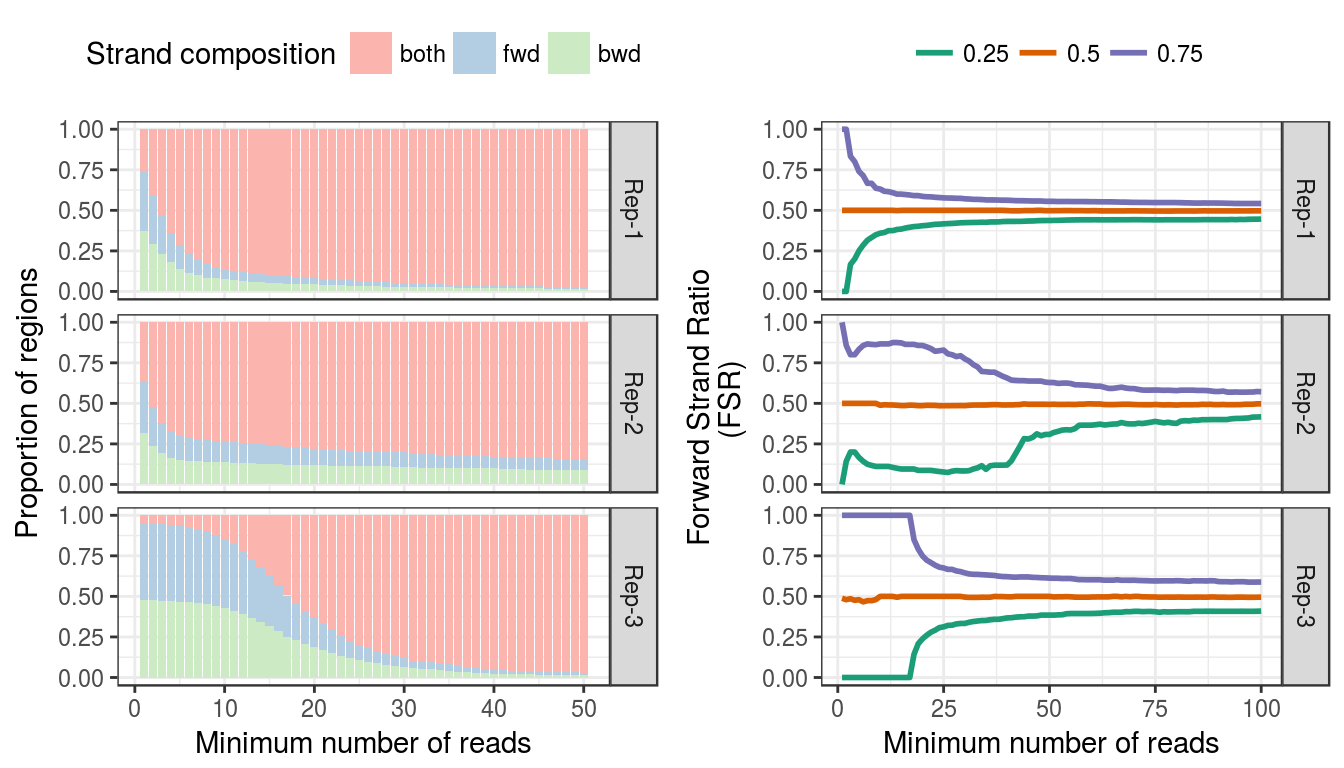
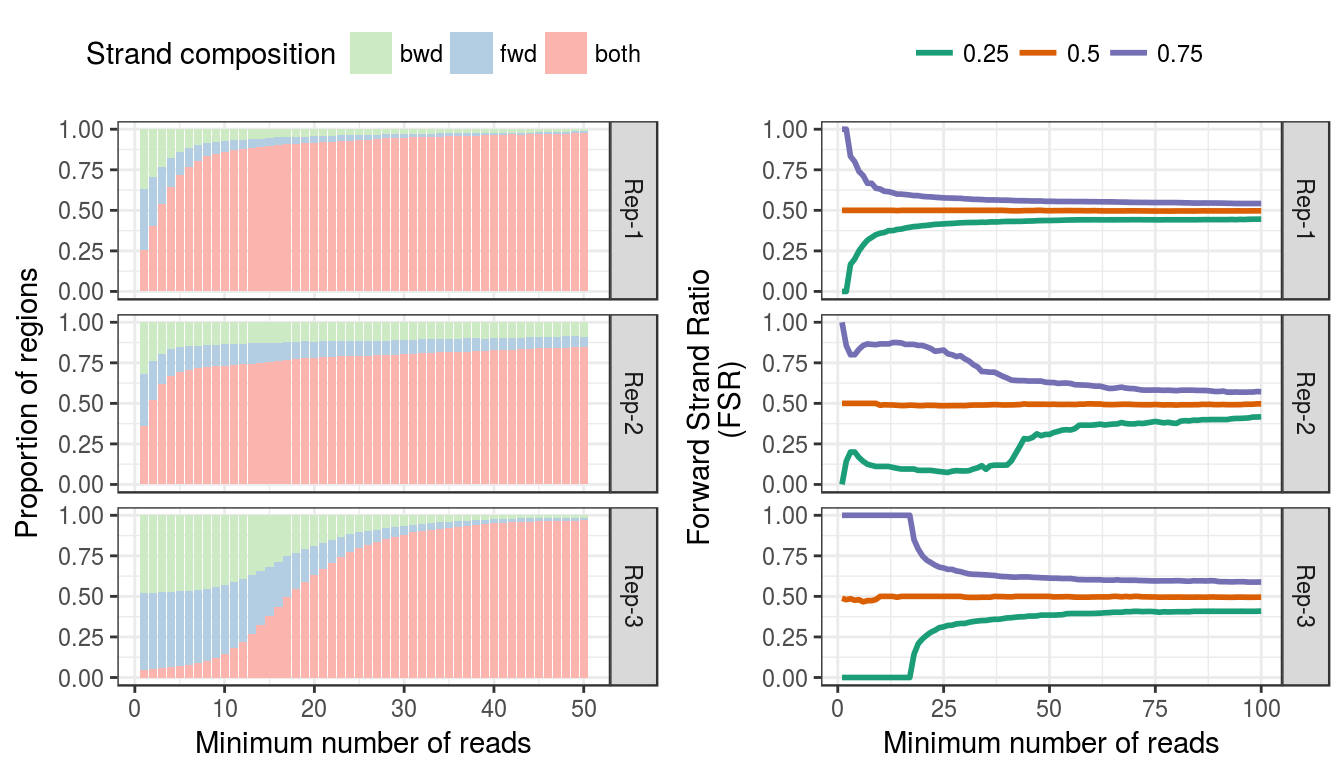
Adapted regionCompplot to recover plots similar to the ones in the manuscript as the recent updates to ggplot2 changed the output of this plot.

Changed region(s): [[0.0938, 0.1562, 0.4375, 0.9062], [0.25, 0.0312, 0.4688, 0.0938]]

diff --git a/docs/articles/vignette.html b/docs/articles/vignette.html
@@ -144,8 +144,8 @@ D_i = \beta_1 U_i + \beta_2 W_i + \varepsilon_i,
 <div id="strand-imbalance" class="section level2">
 <h2 class="hasAnchor"><html><body><a href="#strand-imbalance" class="anchor"> </a></body></html>Strand imbalance</h2>
 <p>To create the <em>FSR distribution</em> and <em>Region Composition</em> plots suggested in Welch et. al 2016 (submitted), we use the <strong>FSR_dist_plot</strong> and <strong>region_comp_plot</strong>, respectively.</p>
-<div class="sourceCode"><pre class="sourceCode r"><code class="sourceCode r">    p1 =<span class="st"> </span><span class="kw"><a href="../reference/regionCompplot.html">regionCompplot</a></span>(exampleExoData,<span class="dt">names.input =</span> <span class="kw">paste</span>(<span class="st">"Rep"</span>,<span class="dv">1</span>:<span class="dv">3</span>,<span class="dt">sep =</span> <span class="st">"-"</span>),
-        <span class="dt">depth.values =</span> <span class="kw">seq_len</span>(<span class="dv">50</span>))
+<div class="sourceCode"><pre class="sourceCode r"><code class="sourceCode r">    p1 =<span class="st"> </span><span class="kw"><a href="../reference/regionCompplot.html">regionCompplot</a></span>(exampleExoData,<span class="dt">names.input =</span> <span class="kw">paste</span>(<span class="st">"Rep"</span>,<span class="dv">1</span>:<span class="dv">3</span>,
+        <span class="dt">sep =</span> <span class="st">"-"</span>),<span class="dt">depth.values =</span> <span class="kw">seq_len</span>(<span class="dv">50</span>))
     p2 =<span class="st"> </span><span class="kw"><a href="../reference/FSRDistplot.html">FSRDistplot</a></span>(exampleExoData,<span class="dt">names.input =</span> <span class="kw">paste</span>(<span class="st">"Rep"</span>,<span class="dv">1</span>:<span class="dv">3</span>,<span class="dt">sep =</span> <span class="st">"-"</span>),
         <span class="dt">quantiles =</span> <span class="kw">c</span>(.<span class="dv">25</span>,.<span class="dv">5</span>,.<span class="dv">75</span>),<span class="dt">depth.values =</span> <span class="kw">seq_len</span>(<span class="dv">100</span>))
     gridExtra::<span class="kw">grid.arrange</span>(p1,p2,<span class="dt">nrow =</span> <span class="dv">1</span>)</code></pre></div>
@@ -219,67 +219,68 @@ D_i = \beta_1 U_i + \beta_2 U_2 + \epsilon_i,
 ## [1] ChIPexoQual_0.99.12
 ## 
 ## loaded via a namespace (and not attached):
-##   [1] colorspace_1.3-1              rsconnect_0.6                
-##   [3] rprojroot_1.1                 biovizBase_1.22.0            
-##   [5] htmlTable_1.7                 XVector_0.14.0               
-##   [7] GenomicRanges_1.26.1          dichromat_2.0-0              
-##   [9] roxygen2_5.0.1                hexbin_1.27.1                
-##  [11] stats_3.3.2                   getopt_1.20.0                
-##  [13] interactiveDisplayBase_1.12.0 AnnotationDbi_1.36.0         
-##  [15] xml2_1.0.0.9001               codetools_0.2-15             
-##  [17] splines_3.3.2                 mnormt_1.5-5                 
-##  [19] knitr_1.15.1                  pkgload_0.0.0.9000           
-##  [21] jsonlite_1.1                  Formula_1.2-1                
-##  [23] Rsamtools_1.26.1              broom_0.4.1                  
-##  [25] base_3.3.2                    cluster_2.0.5                
-##  [27] graph_1.52.0                  shiny_0.14.2                 
-##  [29] httr_1.2.1                    backports_1.0.4              
-##  [31] assertthat_0.1                Matrix_1.2-7.1               
-##  [33] lazyeval_0.2.0                acepack_1.4.1                
-##  [35] htmltools_0.3.5               tools_3.3.2                  
-##  [37] gtable_0.2.0                  reshape2_1.4.2               
-##  [39] dplyr_0.5.0                   grDevices_3.3.2              
-##  [41] Rcpp_0.12.8                   highlight_0.4.7              
-##  [43] Biobase_2.34.0                pkgdown_0.1.0.9000           
-##  [45] Biostrings_2.42.0             nlme_3.1-128                 
-##  [47] rtracklayer_1.34.1            psych_1.6.9                  
-##  [49] optparse_1.3.2                stringr_1.1.0                
-##  [51] testthat_1.0.2                mime_0.5                     
-##  [53] ensembldb_1.6.2               devtools_1.12.0.9000         
-##  [55] XML_3.98-1.5                  AnnotationHub_2.6.4          
-##  [57] zlibbioc_1.20.0               scales_0.4.1                 
-##  [59] BiocStyle_2.2.1               BSgenome_1.42.0              
-##  [61] VariantAnnotation_1.20.1      BiocInstaller_1.24.0         
-##  [63] graphics_3.3.2                BiocCheck_1.10.0             
-##  [65] parallel_3.3.2                SummarizedExperiment_1.4.0   
-##  [67] RBGL_1.50.0                   RColorBrewer_1.1-2           
-##  [69] utils_3.3.2                   curl_2.3                     
-##  [71] yaml_2.1.14                   memoise_1.0.0                
-##  [73] gridExtra_2.2.1               ggplot2_2.2.0                
-##  [75] datasets_3.3.2                biomaRt_2.30.0               
-##  [77] rpart_4.1-10                  latticeExtra_0.6-28          
-##  [79] stringi_1.1.2                 RSQLite_1.1                  
-##  [81] S4Vectors_0.12.0              desc_1.0.1                   
-##  [83] GenomicFeatures_1.26.0        BiocGenerics_0.20.0          
-##  [85] pkgbuild_0.0.0.9000           BiocParallel_1.8.1           
-##  [87] GenomeInfoDb_1.10.1           bitops_1.0-6                 
-##  [89] evaluate_0.10                 lattice_0.20-34              
-##  [91] ChIPexoQualExample_0.99.3     purrr_0.2.2                  
-##  [93] GenomicAlignments_1.10.0      labeling_0.3                 
-##  [95] plyr_1.8.4                    magrittr_1.5                 
-##  [97] R6_2.2.0                      IRanges_2.8.1                
-##  [99] Hmisc_4.0-0                   RUnit_0.4.31                 
-## [101] DBI_0.5-1                     whisker_0.3-2                
-## [103] foreign_0.8-67                withr_1.0.2                  
-## [105] biocViews_1.42.0              survival_2.40-1              
-## [107] RCurl_1.95-4.8                nnet_7.3-12                  
-## [109] tibble_1.2                    crayon_1.3.2                 
-## [111] rmarkdown_1.2                 viridis_0.3.4                
-## [113] grid_3.3.2                    data.table_1.9.8             
-## [115] callr_1.0.0.9000              methods_3.3.2                
-## [117] digest_0.6.10                 xtable_1.8-2                 
-## [119] tidyr_0.6.0                   httpuv_1.3.3                 
-## [121] stats4_3.3.2                  munsell_0.4.3</code></pre>
+##   [1] backports_1.0.4               Hmisc_4.0-0                  
+##   [3] AnnotationHub_2.6.4           plyr_1.8.4                   
+##   [5] lazyeval_0.2.0                splines_3.3.2                
+##   [7] BiocParallel_1.8.1            GenomeInfoDb_1.10.1          
+##   [9] ggplot2_2.2.0                 digest_0.6.10                
+##  [11] BiocInstaller_1.24.0          ensembldb_1.6.2              
+##  [13] htmltools_0.3.5               viridis_0.3.4                
+##  [15] rsconnect_0.6                 magrittr_1.5                 
+##  [17] memoise_1.0.0                 BSgenome_1.42.0              
+##  [19] cluster_2.0.5                 ChIPexoQualExample_0.99.3    
+##  [21] Biostrings_2.42.0             methods_3.3.2                
+##  [23] pkgdown_0.1.0.9000            colorspace_1.3-1             
+##  [25] dplyr_0.5.0                   callr_1.0.0.9000             
+##  [27] crayon_1.3.2                  RCurl_1.95-4.8               
+##  [29] jsonlite_1.1                  hexbin_1.27.1                
+##  [31] graph_1.52.0                  roxygen2_5.0.1               
+##  [33] survival_2.40-1               VariantAnnotation_1.20.1     
+##  [35] utils_3.3.2                   gtable_0.2.0                 
+##  [37] zlibbioc_1.20.0               XVector_0.14.0               
+##  [39] pkgbuild_0.0.0.9000           BiocGenerics_0.20.0          
+##  [41] scales_0.4.1                  DBI_0.5-1                    
+##  [43] graphics_3.3.2                Rcpp_0.12.8                  
+##  [45] xtable_1.8-2                  htmlTable_1.7                
+##  [47] foreign_0.8-67                Formula_1.2-1                
+##  [49] stats4_3.3.2                  base_3.3.2                   
+##  [51] httr_1.2.1                    getopt_1.20.0                
+##  [53] RColorBrewer_1.1-2            acepack_1.4.1                
+##  [55] XML_3.98-1.5                  nnet_7.3-12                  
+##  [57] labeling_0.3                  reshape2_1.4.2               
+##  [59] AnnotationDbi_1.36.0          stats_3.3.2                  
+##  [61] munsell_0.4.3                 biocViews_1.42.0             
+##  [63] tools_3.3.2                   RSQLite_1.1                  
+##  [65] devtools_1.12.0.9000          broom_0.4.1                  
+##  [67] evaluate_0.10                 stringr_1.1.0                
+##  [69] yaml_2.1.14                   highlight_0.4.7              
+##  [71] grDevices_3.3.2               knitr_1.15.1                 
+##  [73] purrr_0.2.2                   RBGL_1.50.0                  
+##  [75] nlme_3.1-128                  whisker_0.3-2                
+##  [77] mime_0.5                      xml2_1.0.0.9001              
+##  [79] biomaRt_2.30.0                BiocStyle_2.2.1              
+##  [81] curl_2.3                      interactiveDisplayBase_1.12.0
+##  [83] testthat_1.0.2                tibble_1.2                   
+##  [85] stringi_1.1.2                 GenomicFeatures_1.26.0       
+##  [87] desc_1.0.1                    lattice_0.20-34              
+##  [89] Matrix_1.2-7.1                psych_1.6.9                  
+##  [91] BiocCheck_1.10.0              RUnit_0.4.31                 
+##  [93] optparse_1.3.2                data.table_1.9.8             
+##  [95] bitops_1.0-6                  httpuv_1.3.3                 
+##  [97] rtracklayer_1.34.1            GenomicRanges_1.26.1         
+##  [99] R6_2.2.0                      latticeExtra_0.6-28          
+## [101] gridExtra_2.2.1               IRanges_2.8.1                
+## [103] codetools_0.2-15              dichromat_2.0-0              
+## [105] assertthat_0.1                pkgload_0.0.0.9000           
+## [107] SummarizedExperiment_1.4.0    rprojroot_1.1                
+## [109] withr_1.0.2                   GenomicAlignments_1.10.0     
+## [111] Rsamtools_1.26.1              mnormt_1.5-5                 
+## [113] S4Vectors_0.12.0              datasets_3.3.2               
+## [115] parallel_3.3.2                grid_3.3.2                   
+## [117] rpart_4.1-10                  tidyr_0.6.0                  
+## [119] rmarkdown_1.2                 git2r_0.16.0                 
+## [121] biovizBase_1.22.0             Biobase_2.34.0               
+## [123] shiny_0.14.2</code></pre>
 </div>
 <div id="references" class="section level1 unnumbered">
 <h1 class="hasAnchor"><html><body><a href="#references" class="anchor"> </a></body></html>References</h1>
